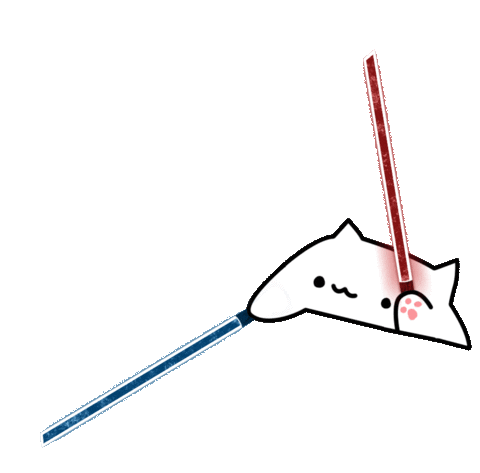
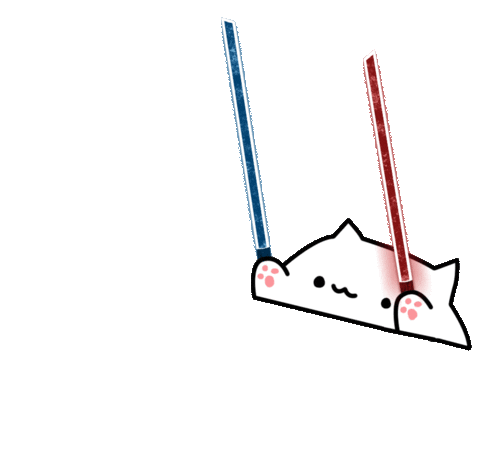
bongocat add

Changed region(s): [[0.0625, 0.0296, 0.6562, 0.9471]]

diff --git a/js/httpStatus.js b/js/httpStatus.js
@@ -170,12 +170,21 @@ export class HTTPStatus {
 
 
         //여기다가 고양이 치는거
-        if ($("#bongoCat1").css("display") == "block") {
-            $("#bongoCat1").css("display", "none");
-            $("#bongoCat2").css("display", "block");
-        } else {
-            $("#bongoCat1").css("display", "block");
-            $("#bongoCat2").css("display", "none");
+        let min = 1;
+        let max = 5;
+        let randomCount = Math.floor(Math.random() * (max - min)) + min;
+
+        while ($("#bongoCat"+randomCount).css("display") != "none") {
+            randomCount = Math.floor(Math.random() * (max - min)) + min;
+            if ($("#bongoCat"+randomCount).css("display") == "none") break;
+        }
+
+        $("#bongoCat"+randomCount).css("display", "block");
+        for (let i = 1; i < 5; i++) {
+            if (randomCount == i) {
+                continue;
+            }
+            $("#bongoCat"+i).css("display", "none");
         }
 
         if (isNote) {

diff --git a/index.html b/index.html
@@ -90,6 +90,8 @@
     <div class="bongocat">
         <img src="./bongocat/bongocat1.png" id="bongoCat1" alt="bongocat1" width="200px" style="display: block; position: absolute; ">
         <img src="./bongocat/bongocat2.png" id="bongoCat2" alt="bongocat2" width="200px" style="display: none; position: absolute;">
+        <img src="./bongocat/bongocat1.png" id="bongoCat3" alt="bongocat3" width="200px" style="display: none; position: absolute; ">
+        <img src="./bongocat/bongocat2.png" id="bongoCat4" alt="bongocat4" width="200px" style="display: none; position: absolute;">
     </div>
 </body>
 
